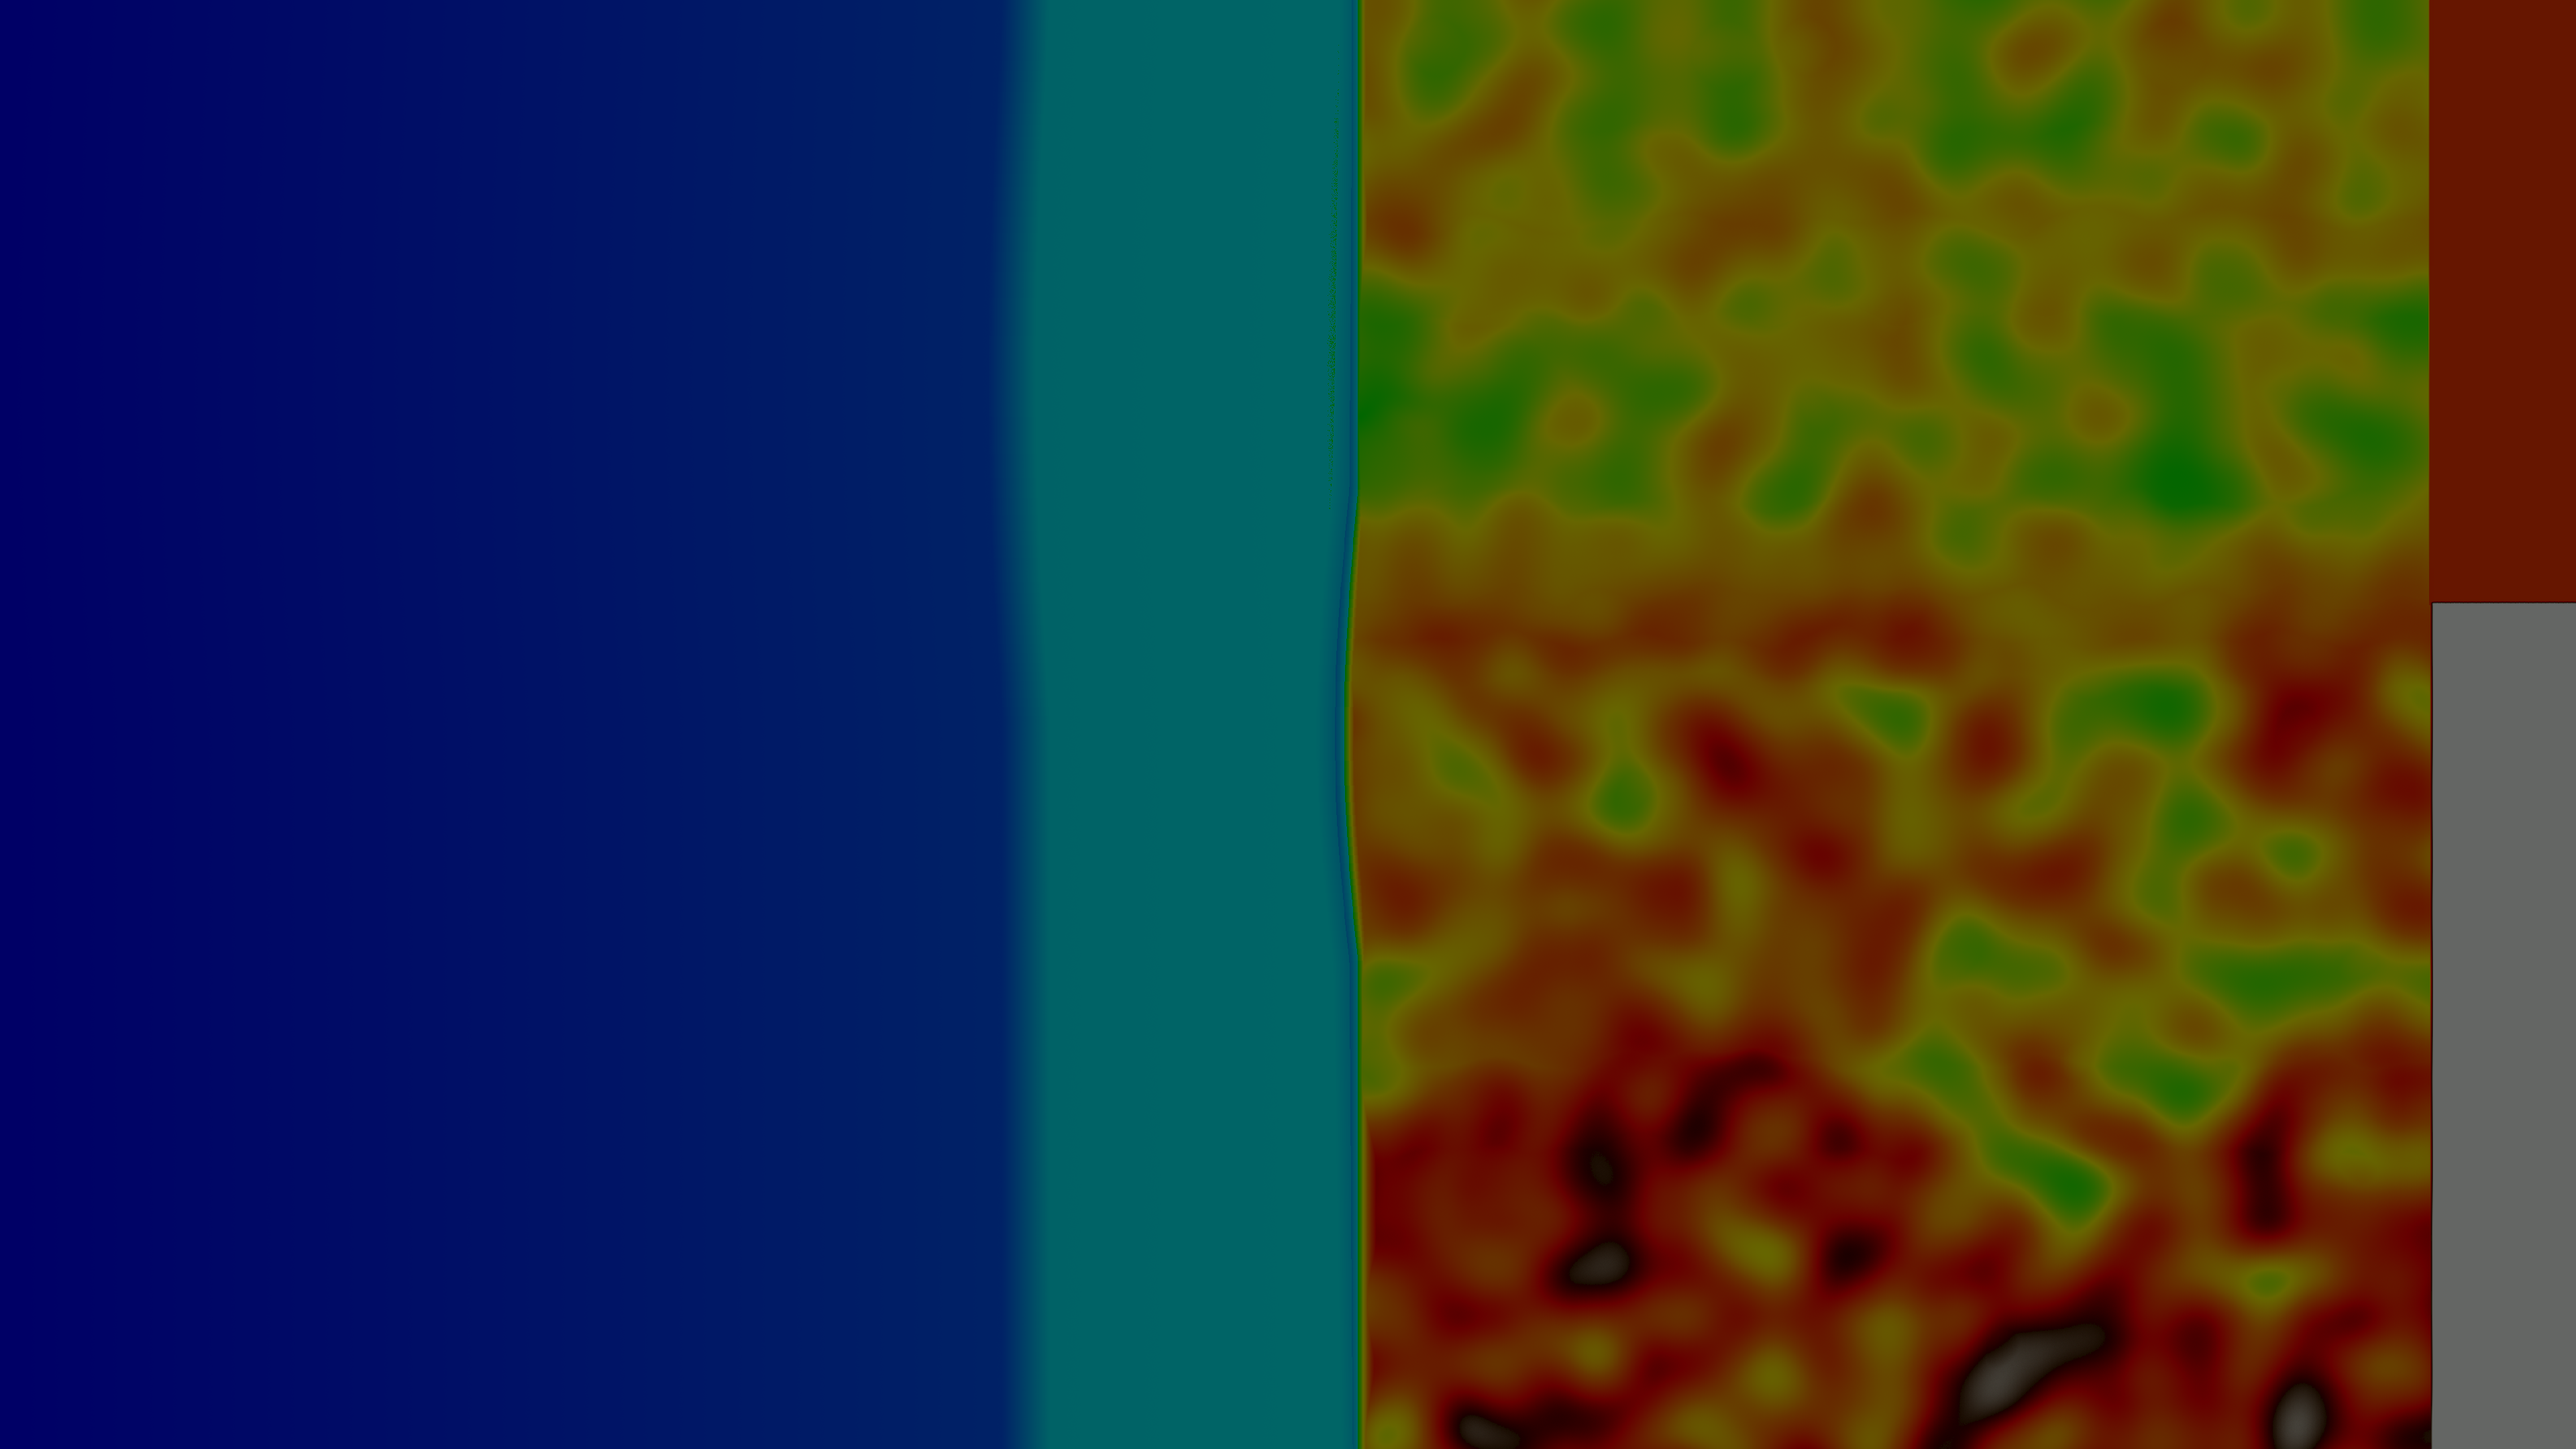
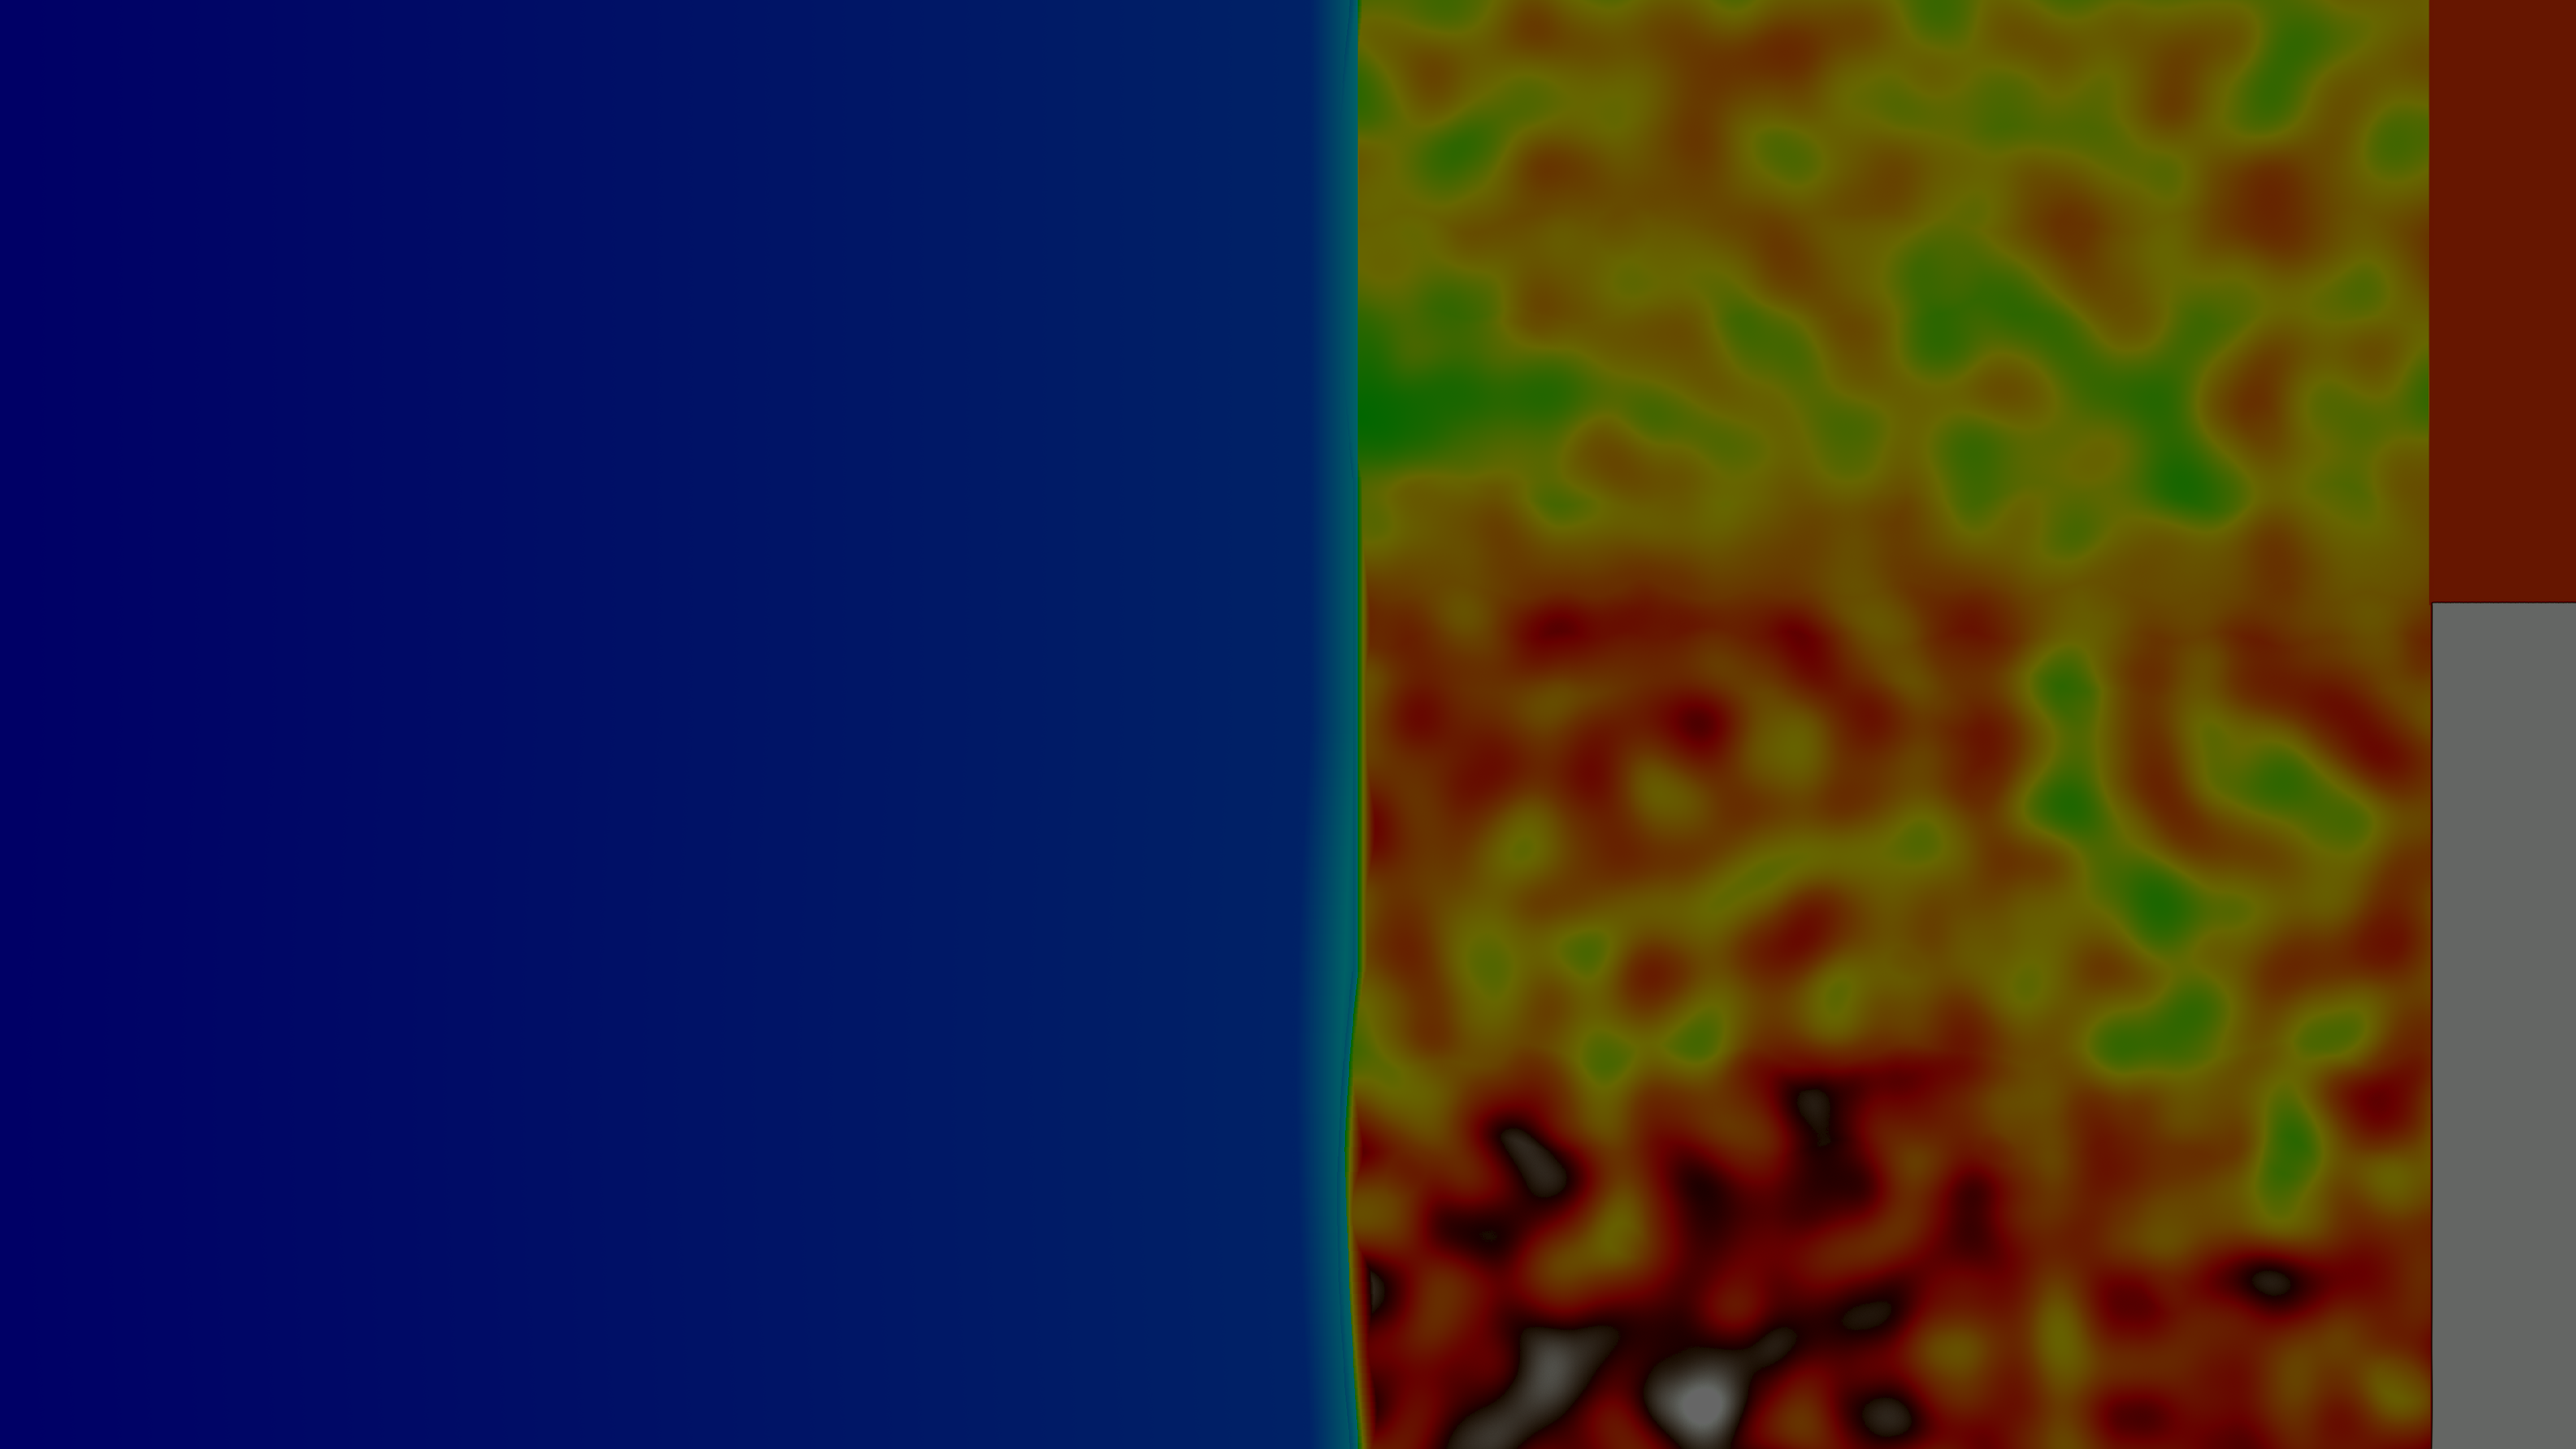
Don't evaporate to below sea level. Images show simulation after 11400 rounds.

diff --git a/src/constants.rs b/src/constants.rs
@@ -45,7 +45,7 @@ pub const DELTA_SEED_WIDTH: usize = 0;
 // River runs through north desert
 pub const NORTH_DESERT_WIDTH: usize = MAIN_RIVER_WIDTH + DELTA_SEED_WIDTH;
 pub const COAST_WIDTH: usize = (72.0 * 2.0 / HEX_FACTOR) as usize;
-pub const COAST_FRINGE: usize = 7;
+pub const COAST_FRINGE: usize = 12;
 pub const NE_BASIN_FRINGE: usize = 4;
 pub const NORTH_DESERT_RAIN: f32 = (COAST_WIDTH as f32 * LOW_RAIN + (NORTH_DESERT_WIDTH - COAST_WIDTH) as f32 * VERY_LOW_RAIN) * NORTH_DESERT_HEIGHT as f32;
 // Rain on the part of the central highland whose east-west extent corresponds to the north desert.
@@ -54,7 +54,7 @@ pub const MAIN_CENTRAL_HIGHLAND_RAIN: f32 = (COAST_WIDTH as f32 * MEDIUM_RAIN + 
 pub const NE_BASIN_WIDTH: usize = ((MAIN_CENTRAL_HIGHLAND_RAIN - NORTH_DESERT_RAIN) / (VERY_HIGH_RAIN * NE_BASIN_HEIGHT as f32)) as usize;
 pub const TOTAL_LAND_WIDTH: usize = NE_BASIN_WIDTH + NORTH_DESERT_WIDTH;
 // In real life, continental shelves can extend as little as 50 miles or as much as 310 miles from shore.
-pub const CONTINENTAL_SHELF_WIDTH: usize = (230.0 * 2.0 / HEX_FACTOR) as usize;
+pub const CONTINENTAL_SHELF_WIDTH: usize = (0.0 * 2.0 / HEX_FACTOR) as usize;
 pub const CONTINENTAL_SHELF_DEPTH: f32 = 460.0;
 pub const CONTINENTAL_SHELF_INCREMENT: f32 = CONTINENTAL_SHELF_DEPTH as f32 / CONTINENTAL_SHELF_WIDTH as f32;
 pub const CONTINENTAL_SLOPE_GRADE: f32 = 0.05; // About 3 degrees.

diff --git a/src/main.rs b/src/main.rs
@@ -767,7 +767,7 @@ fn main() {
                     // Area is oval-shaped, not circular, with the longer axis running east-west.
                     // Experiment with ratio of major axis to minor axis, too long might look weird but too short can result in the river
                     // jumping the tracks, so to speak.
-                    let factor = (cartesian_distance(0.0, cy1, (cx2 - cx1) / 2.5, cy2) / (transition_period as f32)).min(1.0);
+                    let factor = (cartesian_distance(0.0, cy1, (cx2 - cx1) * transition_period as f32 / 400.0, cy2) / (transition_period as f32)).min(1.0);
                     elevation = perlin_noise * NORTH_DESERT_MAX_ELEVATION * factor;
                 } else if deviated_y < NORTH_DESERT_HEIGHT + CENTRAL_HIGHLAND_HEIGHT {
                     // Faster transition because it's a less dramatic change.
